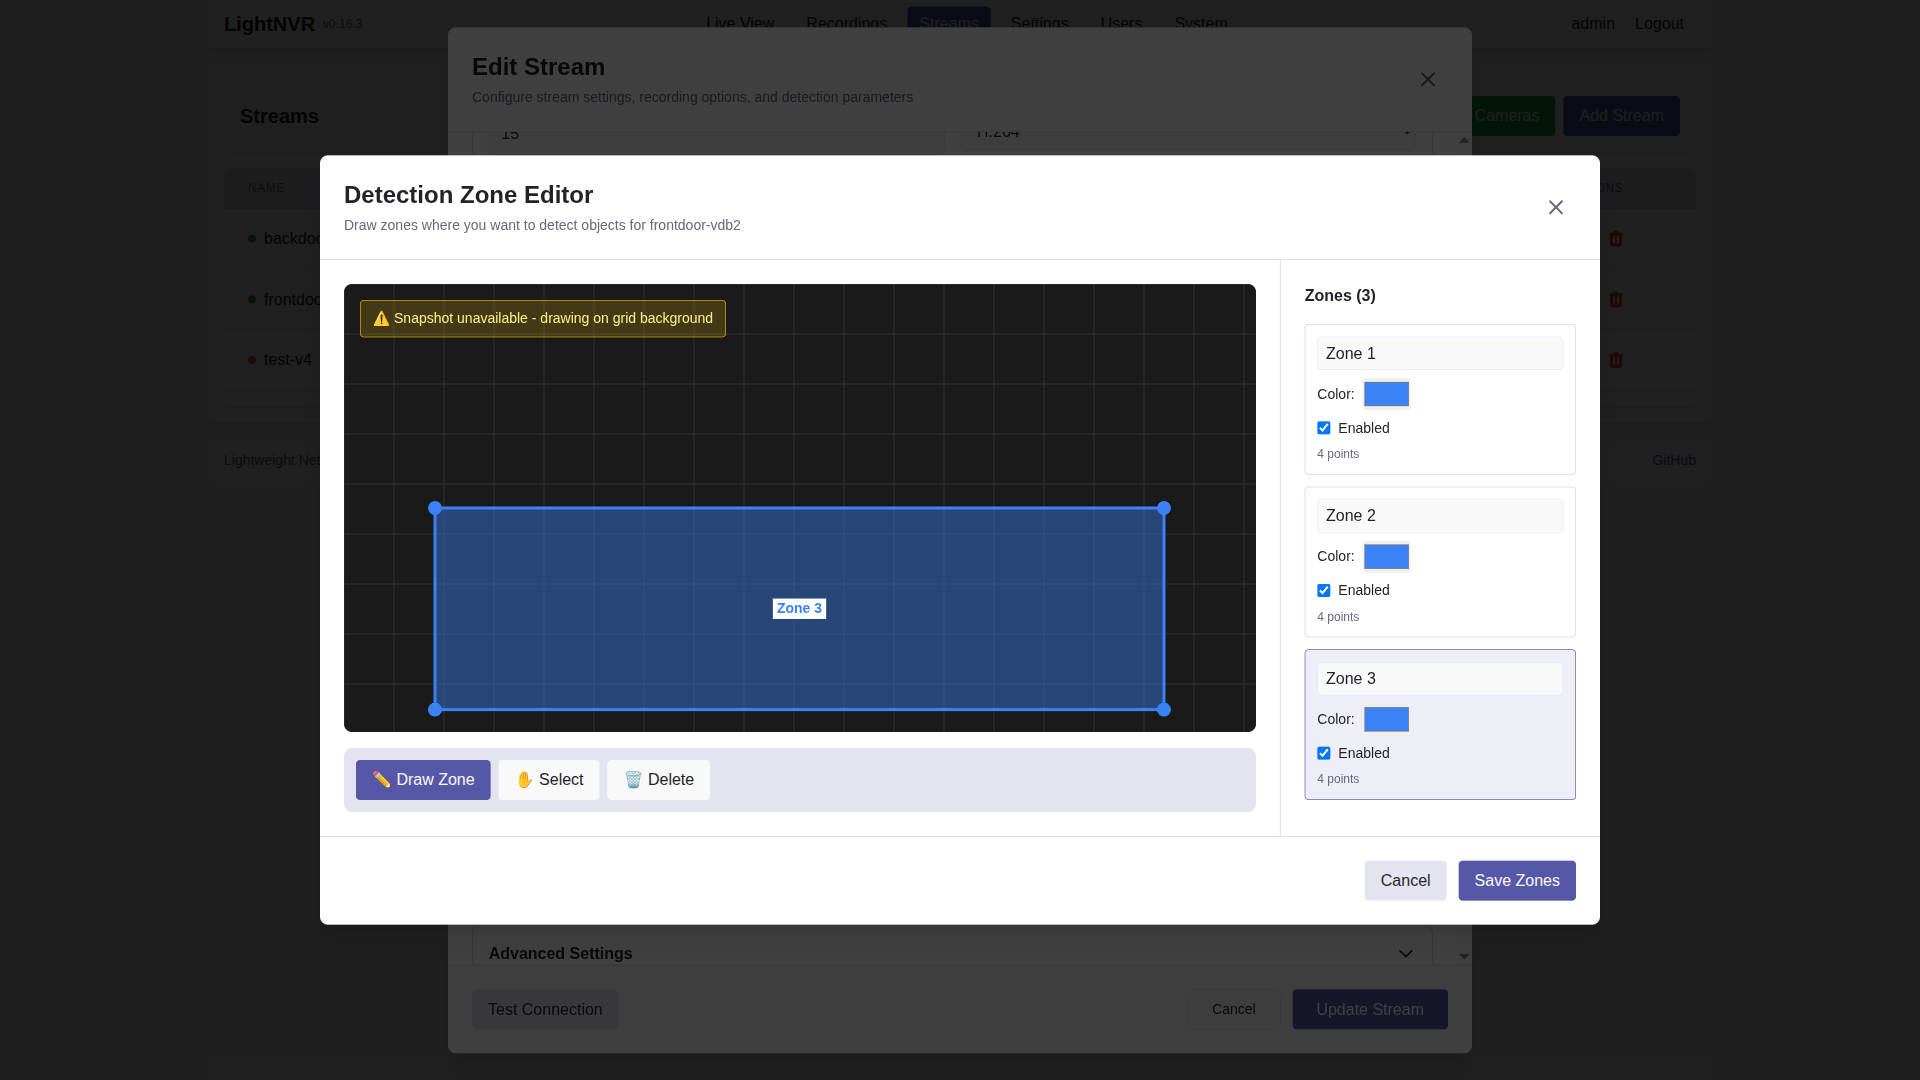
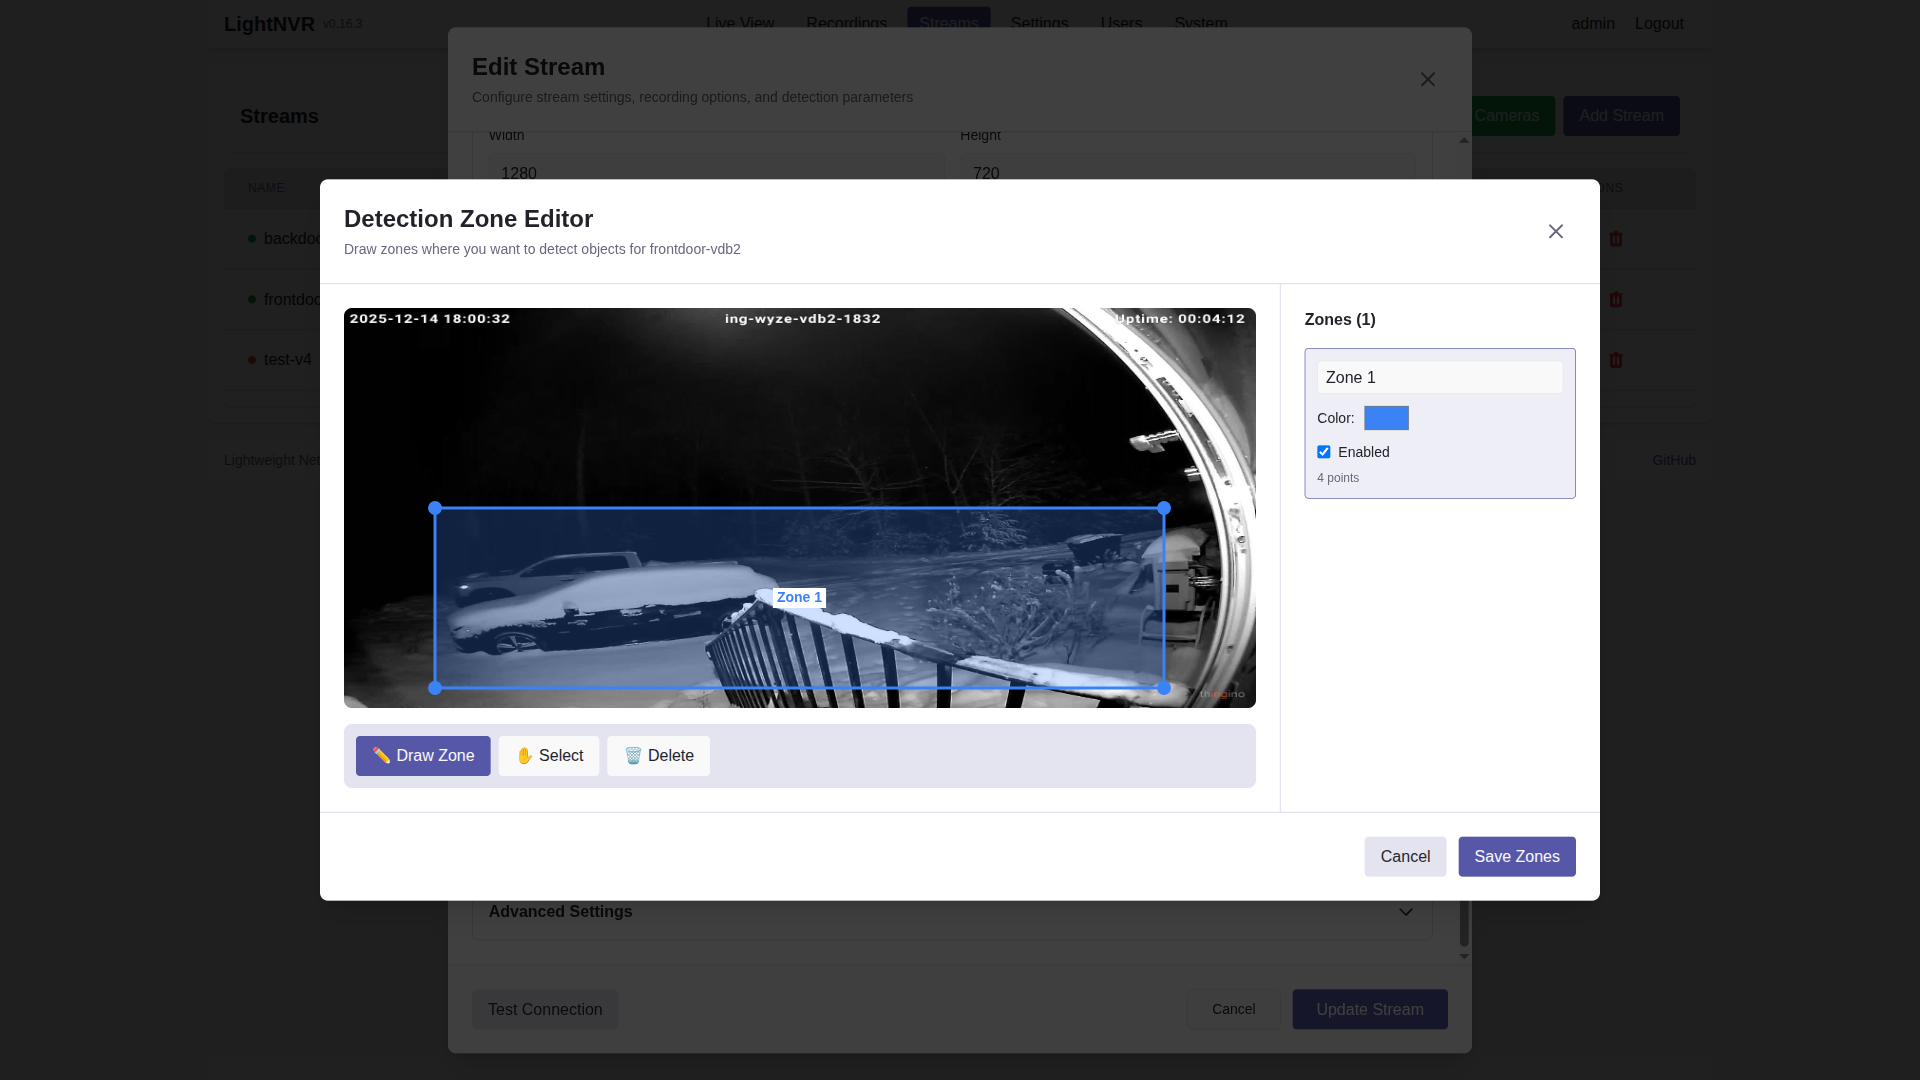
Integrate detection demo screenshots into README
- Zone editor demo with driveway detection zone drawn
- Detection overlay showing real-time bounding boxes on live streams
- Recording playback with video player modal

diff --git a/scripts/capture-detection-demos.js b/scripts/capture-detection-demos.js
@@ -69,11 +69,35 @@ async function captureZoneEditorWithVehicleZone(page) {
   const configureZonesBtn = page.locator('button').filter({ hasText: /Configure Zones|Edit Zones/i }).first();
   await configureZonesBtn.click();
   await sleep(3000);
-  
+
   // Wait for zone editor dialog
   const zoneEditorDialog = page.locator('div').filter({ hasText: /Detection Zone Editor/i }).first();
   await zoneEditorDialog.waitFor({ timeout: 10000 });
-  
+
+  // The snapshot is fetched directly from go2rtc at port 1984 (not proxied)
+  // Wait for the snapshot image to load - go2rtc may need time to grab a frame
+  console.log('  Waiting for go2rtc snapshot to load (direct request to port 1984)...');
+
+  // Wait for the "Snapshot loaded successfully" console message or timeout
+  let snapshotLoaded = false;
+  for (let i = 0; i < 30; i++) { // 15 seconds max wait
+    const loadingIndicator = await zoneEditorDialog.locator('text=Loading stream snapshot').count();
+    if (loadingIndicator === 0) {
+      snapshotLoaded = true;
+      break;
+    }
+    await sleep(500);
+  }
+
+  if (snapshotLoaded) {
+    console.log('  ✓ Snapshot loaded from go2rtc');
+  } else {
+    console.log('  ⚠ Snapshot may not have loaded, continuing anyway');
+  }
+
+  // Extra wait to ensure canvas is fully rendered with the snapshot
+  await sleep(2000);
+
   const canvas = zoneEditorDialog.locator('canvas').first();
   let box = null;
   for (let i = 0; i < 20; i++) {
